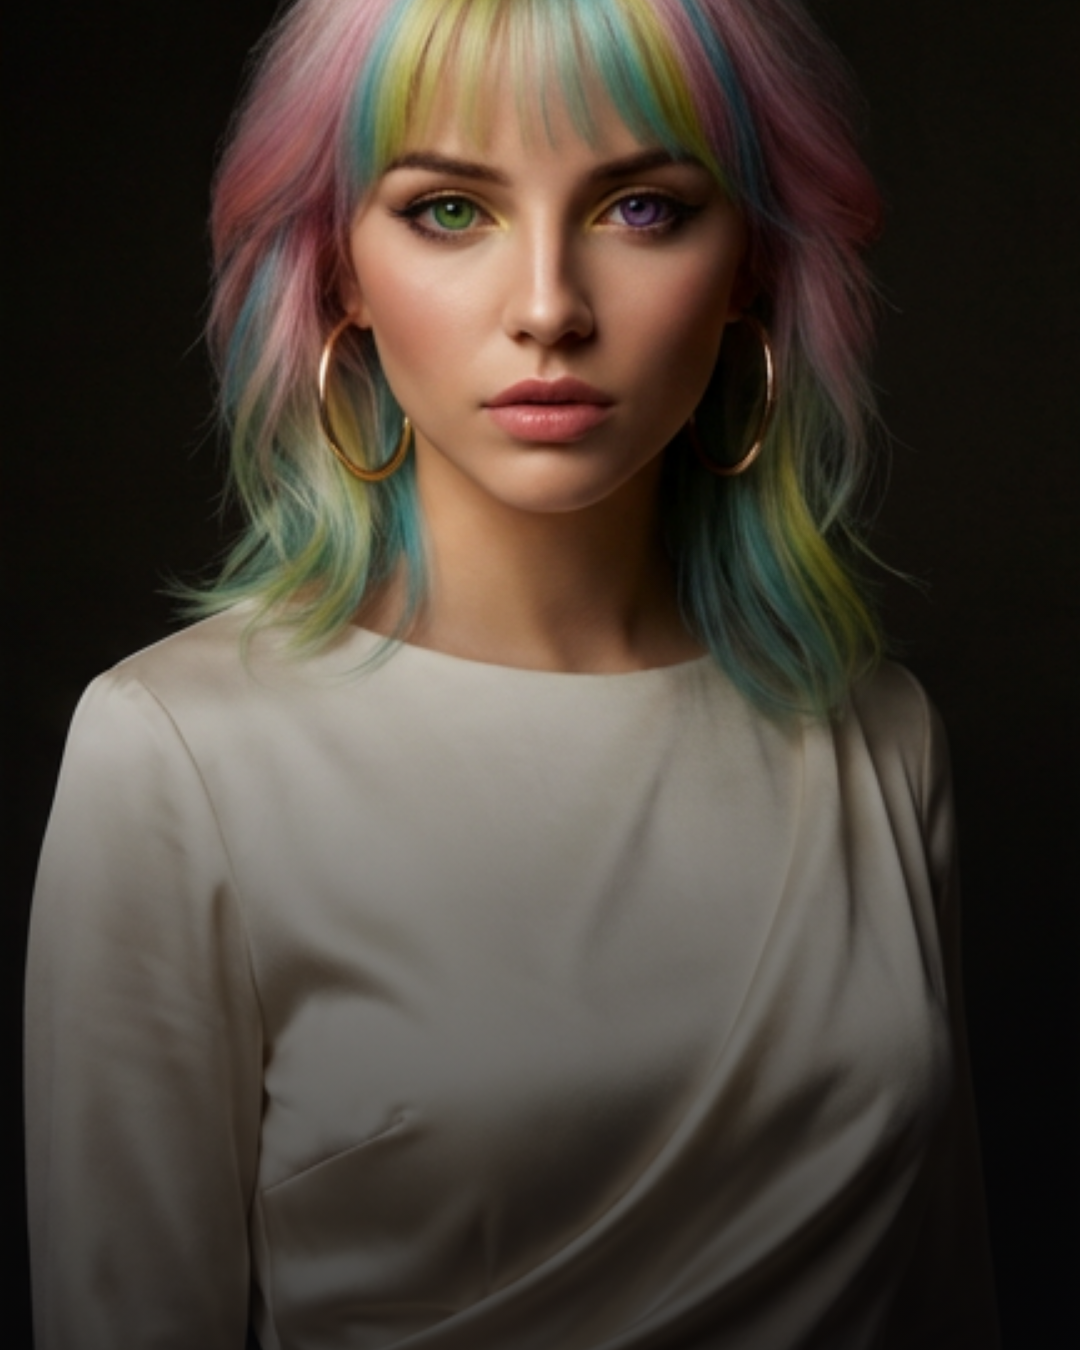
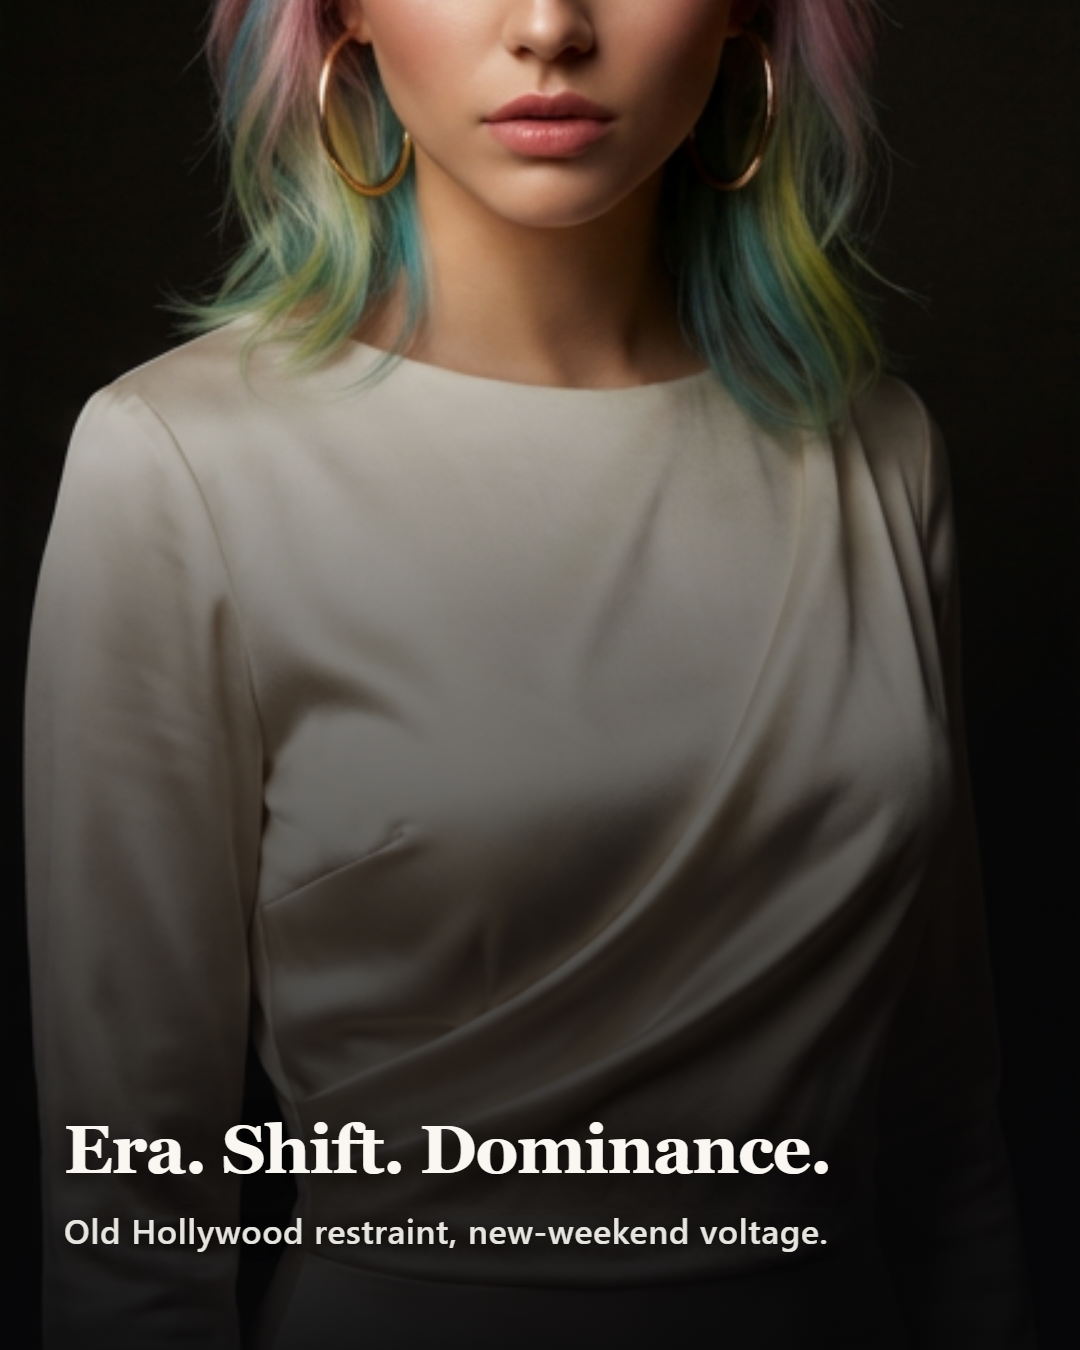
Fix feed 4:5 crops: anchor by Remotion textZone so type is not clipped; safer bottom padding in DeviFeedImageCaption.
Made-with: Cursor

diff --git a/devi-remotion/src/DeviFeedImageCaption.tsx b/devi-remotion/src/DeviFeedImageCaption.tsx
@@ -47,8 +47,9 @@ export const DeviFeedImageCaption: React.FC<DeviFeedImageCaptionProps> = ({
       <AbsoluteFill
         style={{
           justifyContent: isBottom ? "flex-end" : "flex-start",
+          /* Extra bottom padding: IG/FB crop players and in-app chrome eat the lower edge; feed 4:5 crops must anchor bottom — still keep type off the true frame edge. */
           paddingTop: isBottom ? 0 : 96,
-          paddingBottom: isBottom ? 96 : 0,
+          paddingBottom: isBottom ? 168 : 0,
           paddingLeft: 64,
           paddingRight: 64,
         }}

diff --git a/devi-feed/imagegen-buffer-2026-04-16/README.md b/devi-feed/imagegen-buffer-2026-04-16/README.md
@@ -19,3 +19,5 @@ npm run render:devi-feed-overlays
 ```
 
 Copies these PNGs into `devi-remotion/public/devi-feed-buffer/` (gitignored), then writes **`devi-remotion/out/devi-feed-caption-overlays/*-with-caption.png`** + `manifest.json`. Use overlaid stills for Buffer if you want on-image type; plain cards stay in this folder for caption-only posts.
+
+**Feed 4:5 for IG/FB (`with-caption/feed-4x5/`):** Do **not** center-crop 9:16 → 4:5 — that **cuts off** bottom Remotion type. Use **`manifest.json` `textZone`:** `bottom` → ffmpeg `crop=1080:1350:0:570` (keep **bottom** strip); `top` → `crop=1080:1350:0:0` (keep **top** strip). Re-run the crop step after changing overlays.
